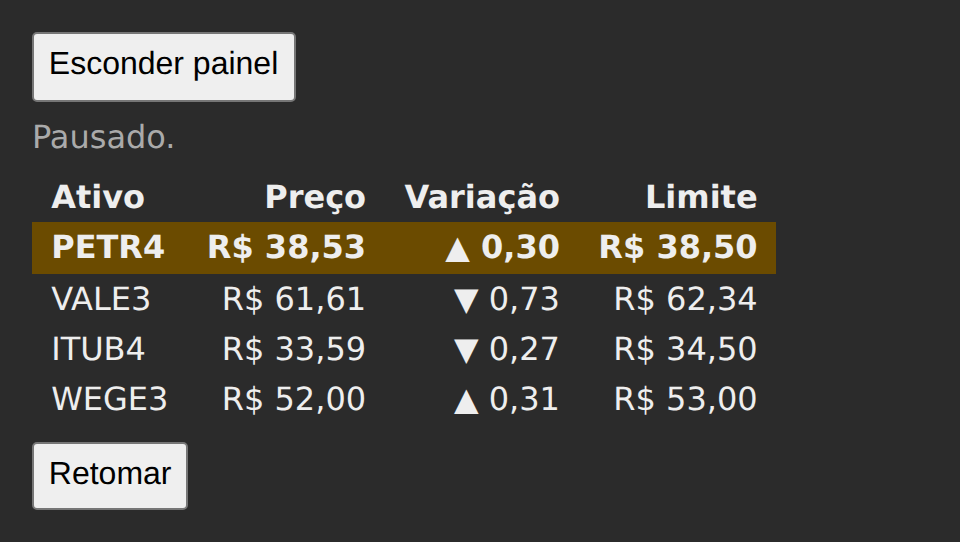
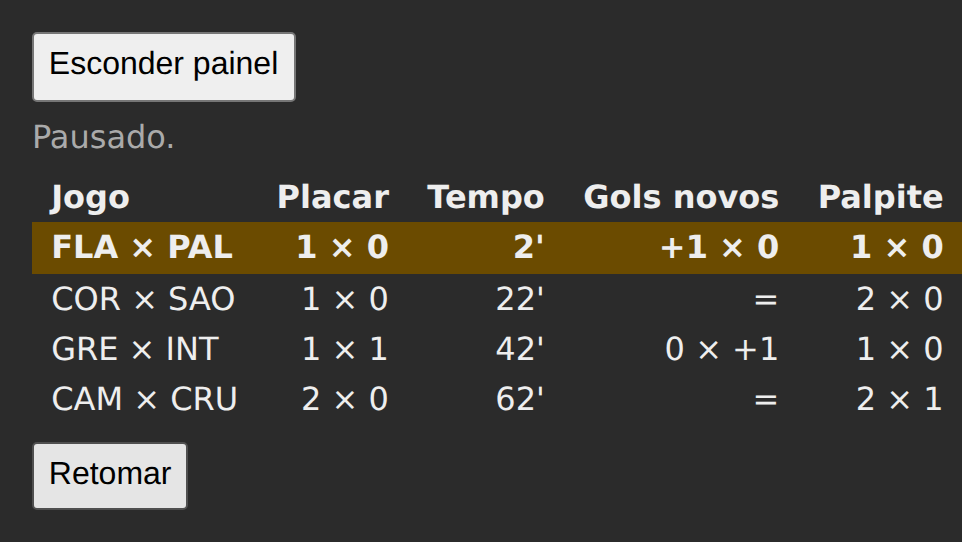
Mostra os placares no Lit dos Dados ao vivo
O Lit dos Dados ao vivo ainda monta o painel de cotações e não compila
contra o domínio dos placares que a especificação viva pede.

O template ganha a coluna do tempo e troca preço, variação e limite por
placar, gols novos e palpite, com as mesmas trocas do React; a
assinatura no connectedCallback e o cancelamento no
disconnectedCallback ficam iguais. O Lit não entrou no protótipo de
2026-10-13, e a troca segue a das outras tecnologias, linha a linha.

O teste de conformidade, colado pelo Playwright no build, passa nas 15
verificações; sem o cancelar do disconnectedCallback, falham as 7 que
contam assinaturas depois de esconder, pausar ou retomar. As quatro
capturas saem byte a byte iguais às do Web Component.

Com o Lit, as quatro implementações web mostram os placares, e a troca
decidida em 2026-10-13 está completa. Fecha tcc-dw83.

Refs: tcc-dw83

diff --git a/implementacoes/dados-ao-vivo/lit/src/main.ts b/implementacoes/dados-ao-vivo/lit/src/main.ts
@@ -1,20 +1,21 @@
 import { LitElement, html, nothing } from "lit";
 import { customElement, state } from "lit/decorators.js";
 import {
-  ATIVOS,
+  JOGOS,
   MENSAGENS,
-  acimaDoLimite,
-  assinarCotacoes,
-  formatarPreco,
-  variacao,
+  assinarPlacares,
+  formatarPlacar,
+  formatarTempo,
+  golsNovos,
+  noPalpite,
   type Lote,
 } from "../../dominio";
 import "../../estilo.css";
 
-@customElement("painel-de-cotacoes")
-class PainelDeCotacoes extends LitElement {
+@customElement("painel-de-placares")
+class PainelDePlacares extends LitElement {
   // Estado da tela: alterá-lo reagenda render(). Os dois últimos lotes: o atual
-  // dá o preço, o anterior, a variação.
+  // dá o placar, o anterior, os gols novos.
   @state() accessor pausado = false;
   @state() accessor anterior: Lote | undefined;
   @state() accessor atual: Lote | undefined;
@@ -39,7 +40,7 @@ class PainelDeCotacoes extends LitElement {
   }
 
   private assinar() {
-    this.cancelar = assinarCotacoes((lote) => {
+    this.cancelar = assinarPlacares((lote) => {
       this.anterior = this.atual;
       this.atual = lote;
     });
@@ -63,21 +64,23 @@ class PainelDeCotacoes extends LitElement {
         <table>
           <thead>
             <tr>
-              <th>Ativo</th>
-              <th>Preço</th>
-              <th>Variação</th>
-              <th>Limite</th>
+              <th>Jogo</th>
+              <th>Placar</th>
+              <th>Tempo</th>
+              <th>Gols novos</th>
+              <th>Palpite</th>
             </tr>
           </thead>
           <tbody>
-            ${ATIVOS.map((ativo) => {
-              const preco = this.atual?.[ativo.codigo];
+            ${JOGOS.map((jogo) => {
+              const placar = this.atual?.[jogo.codigo];
               return html`
-                <tr class=${acimaDoLimite(ativo, preco) ? "alerta" : nothing}>
-                  <td>${ativo.codigo}</td>
-                  <td>${formatarPreco(preco)}</td>
-                  <td>${variacao(this.anterior?.[ativo.codigo], preco)}</td>
-                  <td>${formatarPreco(ativo.limite)}</td>
+                <tr class=${noPalpite(jogo, placar) ? "alerta" : nothing}>
+                  <td>${jogo.codigo}</td>
+                  <td>${formatarPlacar(placar)}</td>
+                  <td>${formatarTempo(placar)}</td>
+                  <td>${golsNovos(this.anterior?.[jogo.codigo], placar)}</td>
+                  <td>${formatarPlacar(jogo.palpite)}</td>
                 </tr>
               `;
             })}
@@ -102,7 +105,7 @@ class DadosAoVivo extends LitElement {
 
   override render() {
     return html`
-      <main class="cotacoes">
+      <main class="placares">
         <button
           type="button"
           class="alternar"
@@ -112,7 +115,7 @@ class DadosAoVivo extends LitElement {
         </button>
         ${
           this.visivel
-            ? html`<painel-de-cotacoes></painel-de-cotacoes>`
+            ? html`<painel-de-placares></painel-de-placares>`
             : nothing
         }
       </main>
